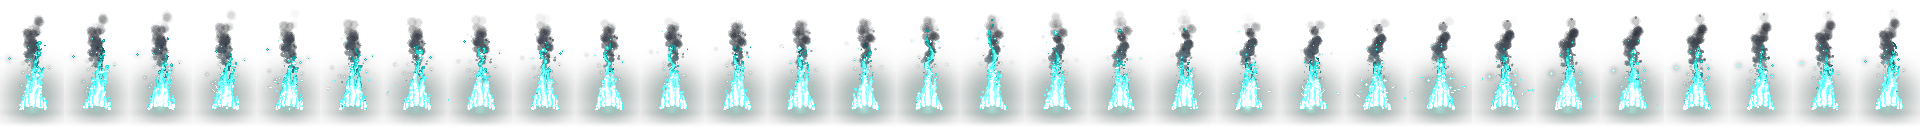
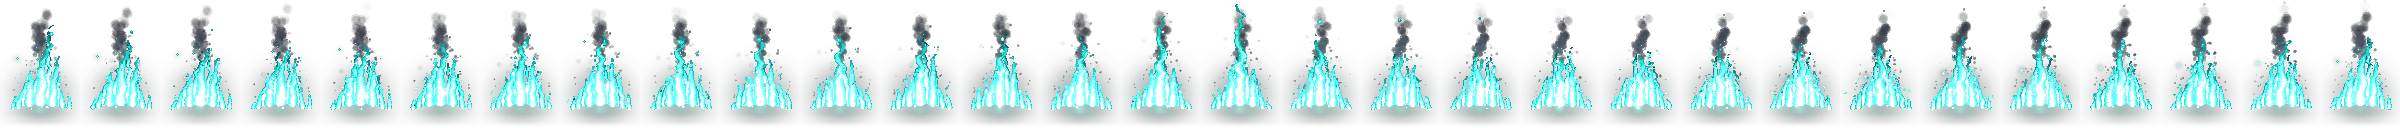
fix(decor): chama da fogueira larga e entre as toras (base/chama/aro em 3 camadas)

Changed region(s): [[0.0, 0.0625, 1.0, 0.875], [0.8438, 0.0938, 0.875, 0.125], [0.7812, 0.125, 0.8125, 0.1562]]

diff --git a/src/components/PetStageDecor.tsx b/src/components/PetStageDecor.tsx
@@ -3,7 +3,8 @@ import { PET_BACKGROUNDS } from '../utils/backgrounds';
 import { DECOR_SLOTS, SLOT_ORDER, decorFitsSetting, decorRenderBox, slotBoxStyle, type SlotId } from '../utils/petStage';
 import { DECOR_ART } from '../utils/decorArt';
 import { ArcadeTela } from './ArcadeTela';
-import campfireApagada from '../assets/decor-fx/furn-campfire-apagada.png';
+import campfireBase from '../assets/decor-fx/furn-campfire-base.png';
+import campfireFrente from '../assets/decor-fx/furn-campfire-frente.png';
 import campfireFogo from '../assets/decor-fx/furn-campfire-fogo.png';
 import { useWindChime } from '../hooks/useWindChime';
 import { DECOR_LUZ, decorLuzAcesa } from '../utils/decorLuz';
@@ -68,7 +69,7 @@ export function PetStageDecor({ equippedDecor, equippedBackground, trophies, lan
         const slot = DECOR_SLOTS[slotId];
         const box = slotBoxStyle(slot);
         const label = isPt ? item.namePt : item.nameEn;
-        const art = item.id === 'furn-campfire' ? campfireApagada : DECOR_ART[item.id]; // a Fogueira do palco é a arte SEM fogo; o fogo é o sprite pixelfx desenhado por cima (§481)
+        const art = item.id === 'furn-campfire' ? campfireBase : DECOR_ART[item.id]; // a Fogueira do palco é a arte SEM fogo em 2 camadas (base: toras e pedras; frente: aro e postes); o fogo do pixelfx passa ENTRE as duas (§481)
         const luz = DECOR_LUZ[item.id];
         const acesa = luz ? decorLuzAcesa(luz, isSleeping) : false;
         const artFiltro = luz && !acesa ? 'brightness(.5) saturate(.55) drop-shadow(0 1px 2px rgba(0,0,0,0.35))' : 'drop-shadow(0 1px 2px rgba(0,0,0,0.35))';
@@ -106,14 +107,6 @@ export function PetStageDecor({ equippedDecor, equippedBackground, trophies, lan
                 background: 'rgba(0,0,0,0.28)', filter: 'blur(2px)',
               }} />
             )}
-            {item.id === 'furn-campfire' && (
-              <span className="sm-decor-quadro" aria-hidden="true">
-                <span className="sm-decor-quadro-i">
-                  <span className="sm-decor-fogo" data-on={acesa || undefined}><img src={campfireFogo} alt="" /></span>
-                  <span className="sm-decor-brasa" data-on={!acesa || undefined} />
-                </span>
-              </span>
-            )}
             {luz && (
               <span
                 className="sm-decor-luz-halo" data-decor-luz={luz.modo} data-tom={luz.tom} data-on={acesa || undefined}
@@ -121,13 +114,32 @@ export function PetStageDecor({ equippedDecor, equippedBackground, trophies, lan
               />
             )}
             {art ? (
-              <img
-                src={art} alt=""
-                style={{
-                  position: 'relative', width: '100%', height: '100%', objectFit: 'contain',
-                  imageRendering: 'pixelated', filter: artFiltro, transition: 'filter .8s ease',
-                }}
-              />
+              <>
+                <img
+                  src={art} alt=""
+                  style={{
+                    position: 'relative', width: '100%', height: '100%', objectFit: 'contain',
+                    imageRendering: 'pixelated', filter: artFiltro, transition: 'filter .8s ease',
+                  }}
+                />
+                {item.id === 'furn-campfire' && (
+                  <>
+                    <span className="sm-decor-quadro" aria-hidden="true">
+                      <span className="sm-decor-quadro-i">
+                        <span className="sm-decor-fogo" data-on={acesa || undefined}><img src={campfireFogo} alt="" /></span>
+                        <span className="sm-decor-brasa" data-on={!acesa || undefined} />
+                      </span>
+                    </span>
+                    <img
+                      src={campfireFrente} alt="" data-decor-frente
+                      style={{
+                        position: 'absolute', inset: 0, width: '100%', height: '100%', objectFit: 'contain',
+                        imageRendering: 'pixelated', filter: artFiltro, transition: 'filter .8s ease',
+                      }}
+                    />
+                  </>
+                )}
+              </>
             ) : (
               <span style={{
                 position: 'relative', fontSize: emojiSize, lineHeight: 1,

diff --git a/src/index.css b/src/index.css
@@ -5056,12 +5056,12 @@ span.sm2-potion-icon[data-prato-art] { font-size: 120px; } /* emoji do prato sem
 /* Quadro quadrado da arte (168×168) dentro da caixa do slot: overlays em % da arte (fogo da fogueira, tela do fliperama). */
 .sm-decor-quadro { position: absolute; inset: 0; container-type: size; display: grid; place-items: center; pointer-events: none; }
 .sm-decor-quadro-i { position: relative; width: min(100cqw, 100cqh); aspect-ratio: 1; }
-/* Fogo pixelfx (MIT, patch-gg/pixelfx): tira de 30 quadros de 64×128 passando em steps(); só transform/opacity. Base do fogo no cruzamento das toras. */
-.sm-decor-fogo { position: absolute; left: 19.4%; top: -42.4%; width: 61%; aspect-ratio: 64 / 128; overflow: hidden; opacity: 0; transition: opacity 1.2s ease; }
+/* Fogo pixelfx (MIT, patch-gg/pixelfx): tira de 30 quadros de 80×128 passando em steps(); só transform/opacity. Base do fogo no cruzamento das toras. */
+.sm-decor-fogo { position: absolute; left: 14%; top: -30.6%; width: 72%; aspect-ratio: 80 / 128; overflow: hidden; opacity: 0; transition: opacity 1.2s ease; }
 .sm-decor-fogo[data-on] { opacity: 1; }
 .sm-decor-fogo img { display: block; height: 100%; width: 3000%; max-width: none; image-rendering: pixelated; animation: sm-decor-fogo-quadros 3s steps(30) infinite; }
 @keyframes sm-decor-fogo-quadros { to { transform: translateX(-100%); } }
-.sm-decor-brasa { position: absolute; left: 42%; top: 58%; width: 16%; aspect-ratio: 2; border-radius: 50%; background: radial-gradient(closest-side, hsl(176 80% 50% / .5), transparent); opacity: 0; transition: opacity 1.2s ease; }
+.sm-decor-brasa { position: absolute; left: 42%; top: 66%; width: 16%; aspect-ratio: 2; border-radius: 50%; background: radial-gradient(closest-side, hsl(176 80% 50% / .5), transparent); opacity: 0; transition: opacity 1.2s ease; }
 .sm-decor-brasa[data-on] { opacity: .55; animation: sm-decor-brasa-pulso 4.5s ease-in-out infinite; }
 @keyframes sm-decor-brasa-pulso { 50% { opacity: .3; } }
 /* Tela do fliperama: 41×40 px da arte em (70,44). */

diff --git a/docs/REGISTRO-DE-DECISOES.md b/docs/REGISTRO-DE-DECISOES.md
@@ -6486,7 +6486,7 @@ Decisão (cinco pedidos literais do dono, um commit por item):
 
 ## §481 — Fogueira sem fogo + fogo pixelfx; tela animada no Fliperama (18/11/2026, dono)
 
-**Decisão:** a Fogueira do palco usa a arte SEM fogo (`furn-campfire-apagada.png`, derivada por edição de pixel da arte aprovada: chama removida, aro de trás redesenhado) e o fogo é um sprite do pixelfx (efeito `fire/campfire` sem toras/brasas, paleta turquesa, 30 quadros 64×128 em `furn-campfire-fogo.png`) que passa por trás da arte via `steps()` (CSS, só transform/opacity). Dormindo: o fogo some e fica uma brasa turquesa fraca. A loja continua mostrando a arte original com fogo. O Fliperama ganha tela viva (`ArcadeTela`, canvas 40×40 a ~10 fps: invasores + nave + tiro em turquesa médio de contraste baixo, com linhas de varredura, faixa que desce, tremida e ruído); pausa em aba oculta; pet dormindo = tela escurecida; movimento reduzido = quadro parado.
+**Decisão:** a Fogueira do palco usa a arte SEM fogo em 2 camadas (`furn-campfire-base.png`: toras e pedras; `furn-campfire-frente.png`: aro e postes; o fogo passa entre as duas; `furn-campfire-apagada`, derivada por edição de pixel da arte aprovada: chama removida, aro de trás redesenhado) e o fogo é um sprite do pixelfx (efeito `fire/campfire` sem toras/brasas, paleta turquesa, 30 quadros 80×128 (chama larga, como a original) em `furn-campfire-fogo.png`) que passa por trás da arte via `steps()` (CSS, só transform/opacity). Dormindo: o fogo some e fica uma brasa turquesa fraca. A loja continua mostrando a arte original com fogo. O Fliperama ganha tela viva (`ArcadeTela`, canvas 40×40 a ~10 fps: invasores + nave + tiro em turquesa médio de contraste baixo, com linhas de varredura, faixa que desce, tremida e ruído); pausa em aba oculta; pet dormindo = tela escurecida; movimento reduzido = quadro parado.
 
 **Licença:** pixelfx é MIT (© 2026 Patch, © 2026 Hugo Duprez; a fonte da galeria NÃO entra). O sprite é derivado de `src/fx/fire/campfire.js` (que adapta o fogo do Sprite Fusion, MIT). Nenhum código da biblioteca roda no app: só a tira de imagem.
 
